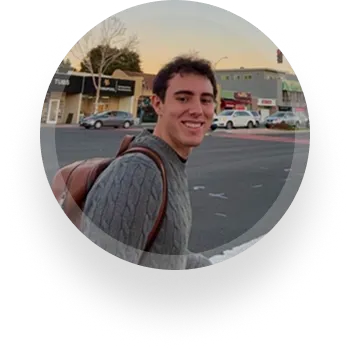
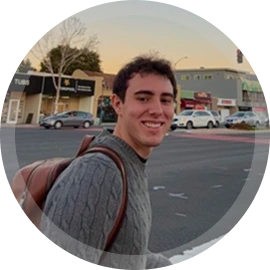
feat: update pfp

diff --git a/demo/src/app/page.tsx b/demo/src/app/page.tsx
@@ -5,10 +5,12 @@ import Board from "~/components/Board";
 import MathPreview from "~/components/MathPreview";
 import Blur from "~/components/Blur";
 import Header from "~/components/Header";
+import CustomButton from "~/components/CustomButton";
 
 export default function HomePage() {
   const [windowSize, setWindowSize] = useState({ width: 0, height: 0 });
   const [headerVisible, setHeaderVisible] = useState(false);
+  const [buttonVisible, setButtonVisible] = useState(false);
 
   useEffect(() => {
     function handleResize() {
@@ -20,11 +22,18 @@ export default function HomePage() {
   }, []);
 
   useEffect(() => {
-    const timer = setTimeout(() => {
+    const headerTimer = setTimeout(() => {
       setHeaderVisible(true);
     }, 200);
 
-    return () => clearTimeout(timer);
+    const buttonTimer = setTimeout(() => {
+      setButtonVisible(true);
+    }, 650);
+
+    return () => {
+      clearTimeout(headerTimer);
+      clearTimeout(buttonTimer);
+    };
   }, []);
 
   function calcMarginHeader(height: number) {
@@ -40,6 +49,10 @@ export default function HomePage() {
   }
 
   function calcMarginBoard(height: number) {
+    return 0.5 * height - 146;
+  }
+
+  function calcMarginButton(height: number) {
     return 0.5 * height - 146;
   }
 
@@ -60,6 +73,13 @@ export default function HomePage() {
             style={{ top: `${calcMarginBoard(windowSize.height)}px` }}
           >
             <Board />
+            <div className="h-[60px]" />
+            <div
+              className="flex justify-center transition-opacity duration-300"
+              style={{ opacity: buttonVisible ? 1 : 0 }}
+            >
+              <CustomButton onClick={() => {}} text="Hello World" />
+            </div>
           </div>
           <Blur blur={10} zIndex={4} top={calcMarginBoard(windowSize.height)} />
           <Blur
@@ -72,11 +92,7 @@ export default function HomePage() {
             zIndex={2}
             top={calcMarginBoard(windowSize.height)}
           />
-          <Blur
-            blur={700}
-            zIndex={3}
-            top={calcMarginBoard(windowSize.height)}
-          />
+
           <div
             className="absolute z-[0] w-full px-[30px] transition-opacity duration-300"
             style={{

diff --git a/demo/src/components/Header.tsx b/demo/src/components/Header.tsx
@@ -24,7 +24,7 @@ const Header = ({ windowWidth }: HeaderProps) => {
         Handwritten Digit Recognizer
       </p>
       <div
-        className="group mt-[14px] flex flex-row items-center justify-center gap-[6px] hover:cursor-pointer"
+        className="group mt-[14px] flex flex-row items-center justify-center gap-[8px] hover:cursor-pointer"
         style={{ transform: `scale(${getResponsiveTextScale(windowWidth)})` }}
         onClick={() => {
           window.open(
@@ -32,14 +32,12 @@ const Header = ({ windowWidth }: HeaderProps) => {
           );
         }}
       >
-        <p className="font-sf mb-[8px] text-[24px] font-[300] text-[#998AAA]">
-          By
-        </p>
+        <p className="font-sf text-[24px] font-[300] text-[#998AAA]">By</p>
         <img
           src="/images/pfp.webp"
-          className="h-[27px] w-[27px] transition-transform duration-300 group-hover:-rotate-[-15deg]"
+          className="h-[27px] w-[27px] transition-transform duration-300 group-hover:-rotate-[-20deg]"
         />
-        <p className="font-sf mb-[8px] text-[24px] font-[300] text-[#998AAA]">
+        <p className="font-sf text-[24px] font-[300] text-[#998AAA]">
           Mark Music
         </p>
       </div>

diff --git a/demo/src/components/Blur.tsx b/demo/src/components/Blur.tsx
@@ -17,18 +17,21 @@ const Blur = ({ blur = 0, zIndex = 0, opacity = 1, top = 0 }: BlurProps) => {
       <img
         src="/images/color.webp"
         className="h-[280px] w-[280px]"
-        style={{ filter: `blur(${blur}px)` }}
+        style={{
+          filter: `blur(${blur}px)`,
+          animation: `scaleAnimation 5s ease-in-out infinite`,
+        }}
       />
       <style jsx>{`
         @keyframes scaleAnimation {
           0% {
-            transform: scale(0.9);
+            transform: scale(0.95);
           }
           50% {
             transform: scale(1);
           }
           100% {
-            transform: scale(0.9);
+            transform: scale(0.95);
           }
         }
       `}</style>

diff --git a/demo/src/components/CustomButton.tsx b/demo/src/components/CustomButton.tsx
@@ -1,0 +1,20 @@
+interface CustomButtonProps {
+  onClick?: () => void;
+  text?: string;
+  icon?: React.ReactNode;
+}
+
+const CustomButton = ({
+  onClick,
+  text = "Hello World",
+  icon,
+}: CustomButtonProps) => {
+  return (
+    <button className="flex items-center bg-red-100" onClick={onClick}>
+      {icon && <span className="mr-2">{icon}</span>}
+      {text}
+    </button>
+  );
+};
+
+export default CustomButton;

diff --git a/demo/src/components/Board.tsx b/demo/src/components/Board.tsx
@@ -1,6 +1,6 @@
 const Board = () => {
   return (
-    <div className="h-[280px] w-[280px] bg-black outline-[3px] outline-[#ffffff4d] md:outline-[6px]"></div>
+    <div className="h-[280px] w-[280px] bg-black outline-[3px] outline-[#ffffff4d] transition-all duration-500 hover:scale-[1.01] md:outline-[6px]"></div>
   );
 };
 
